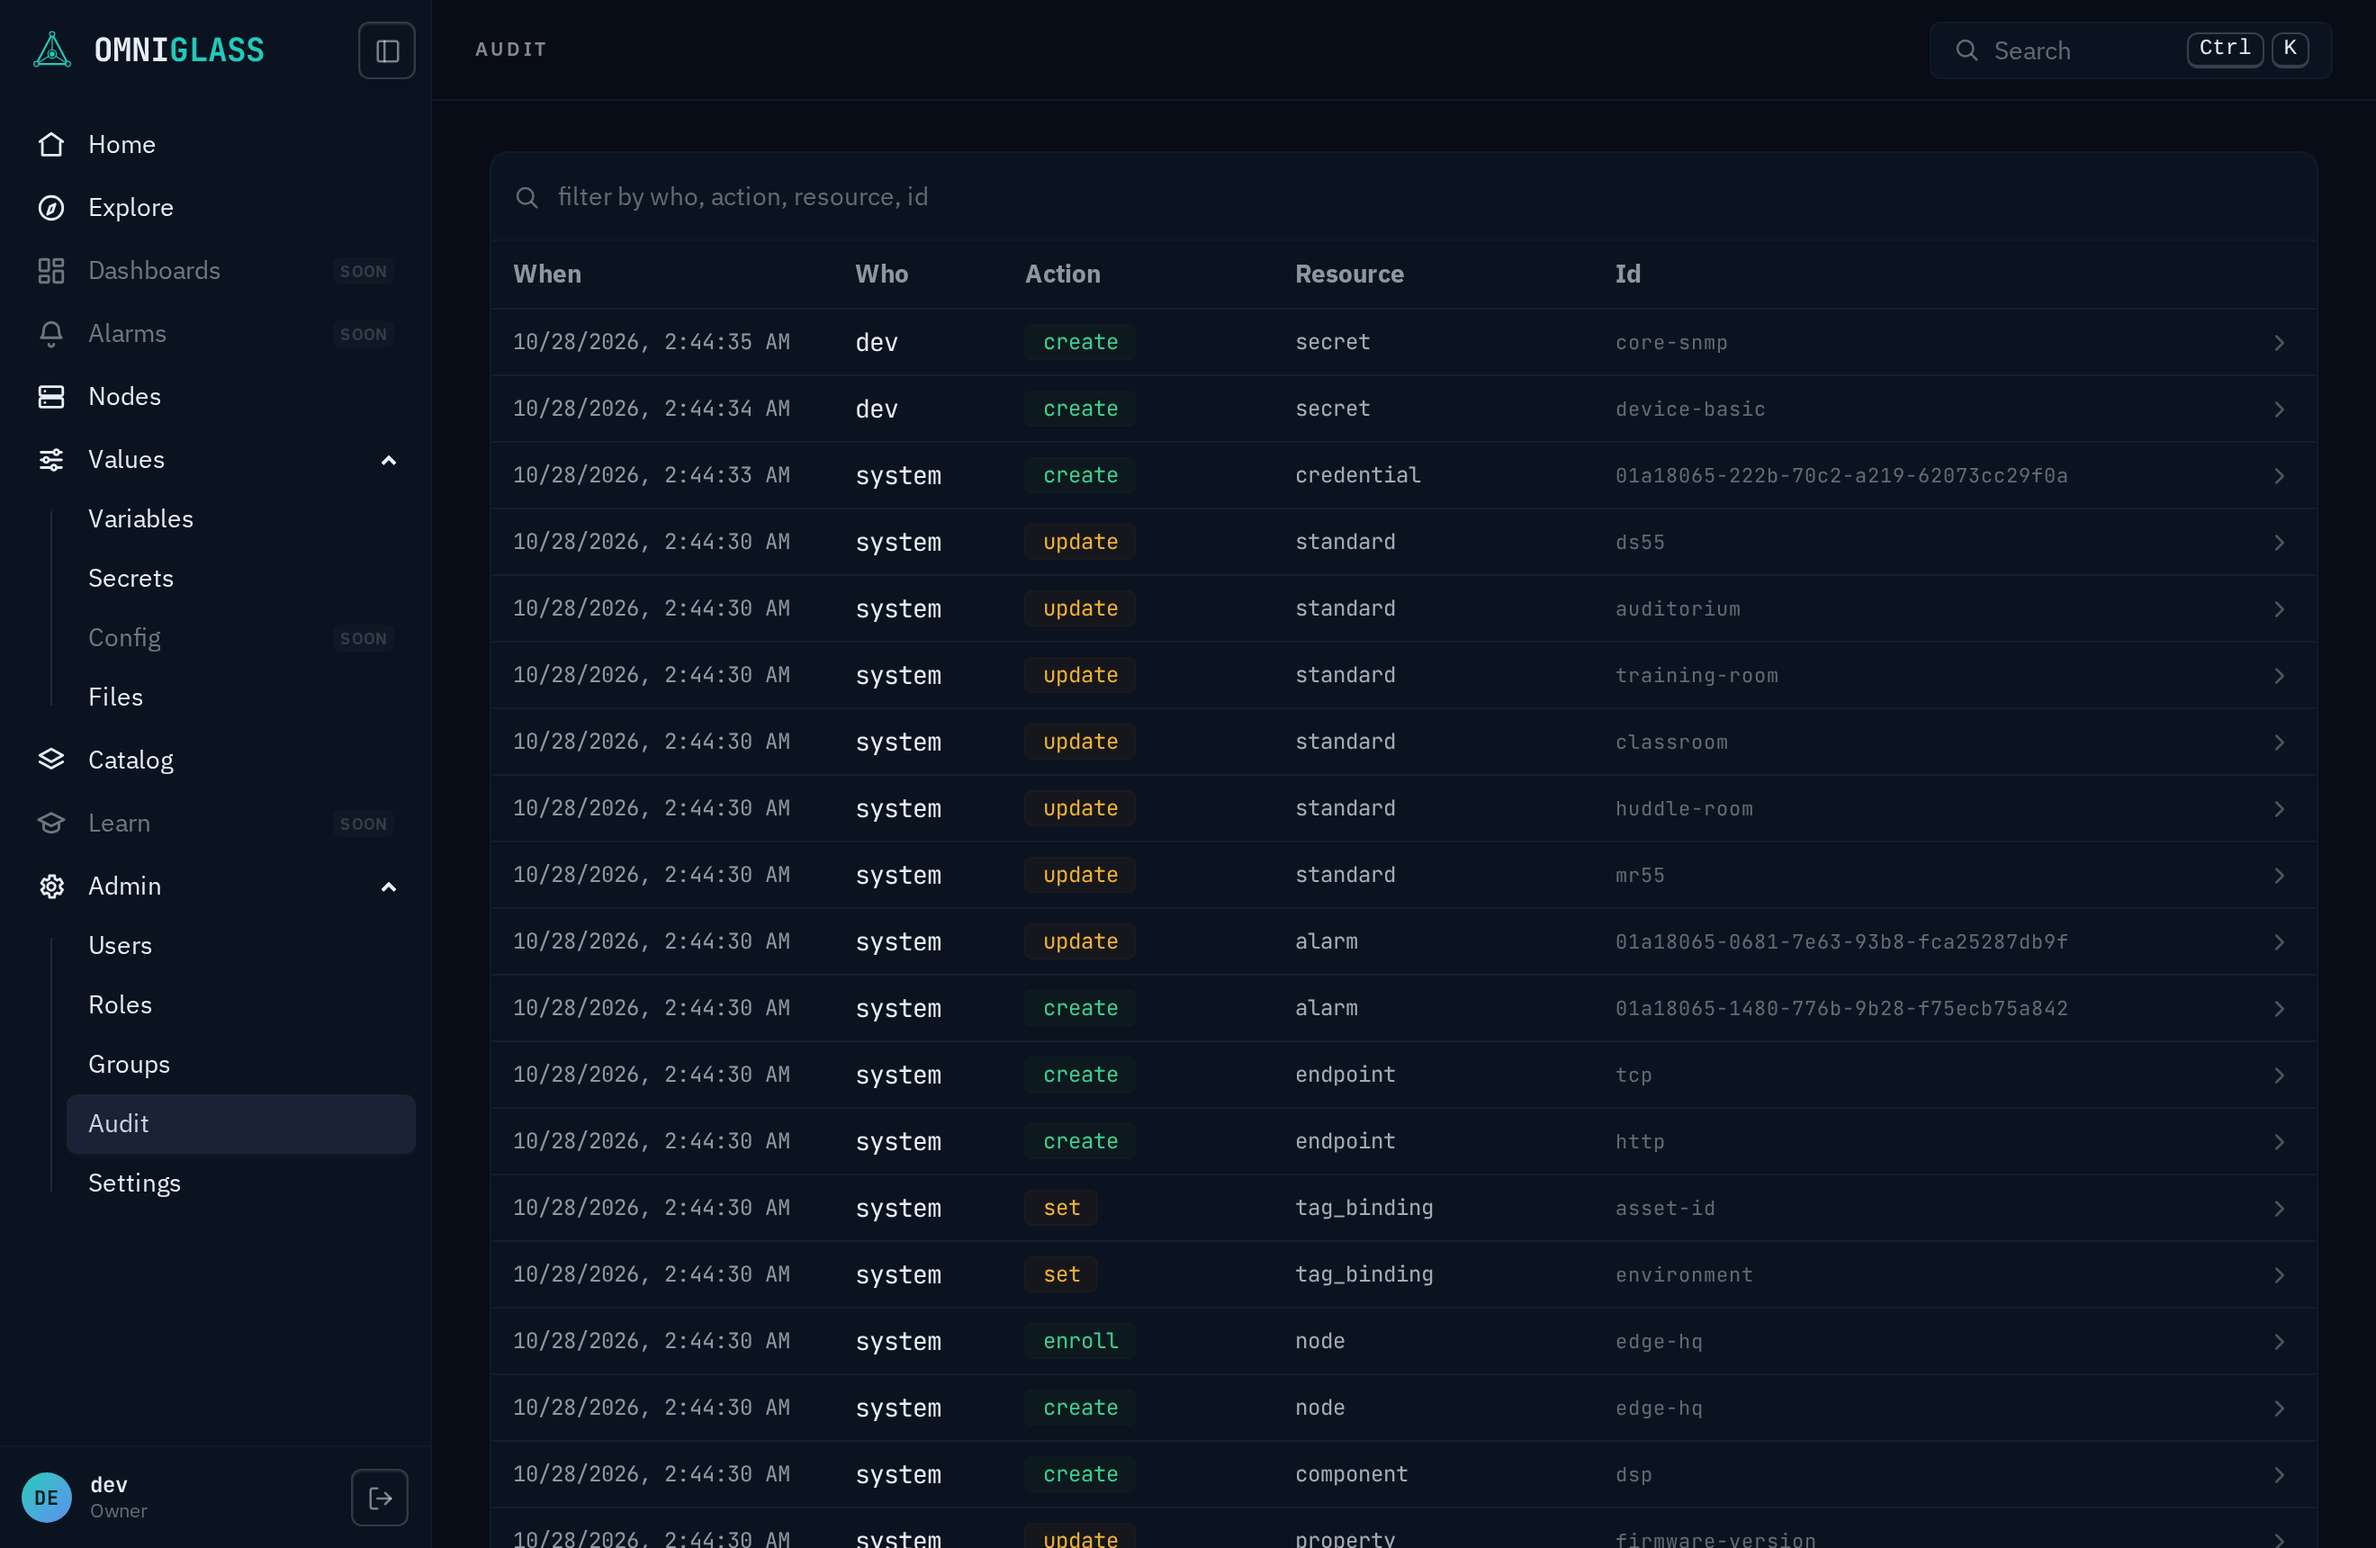
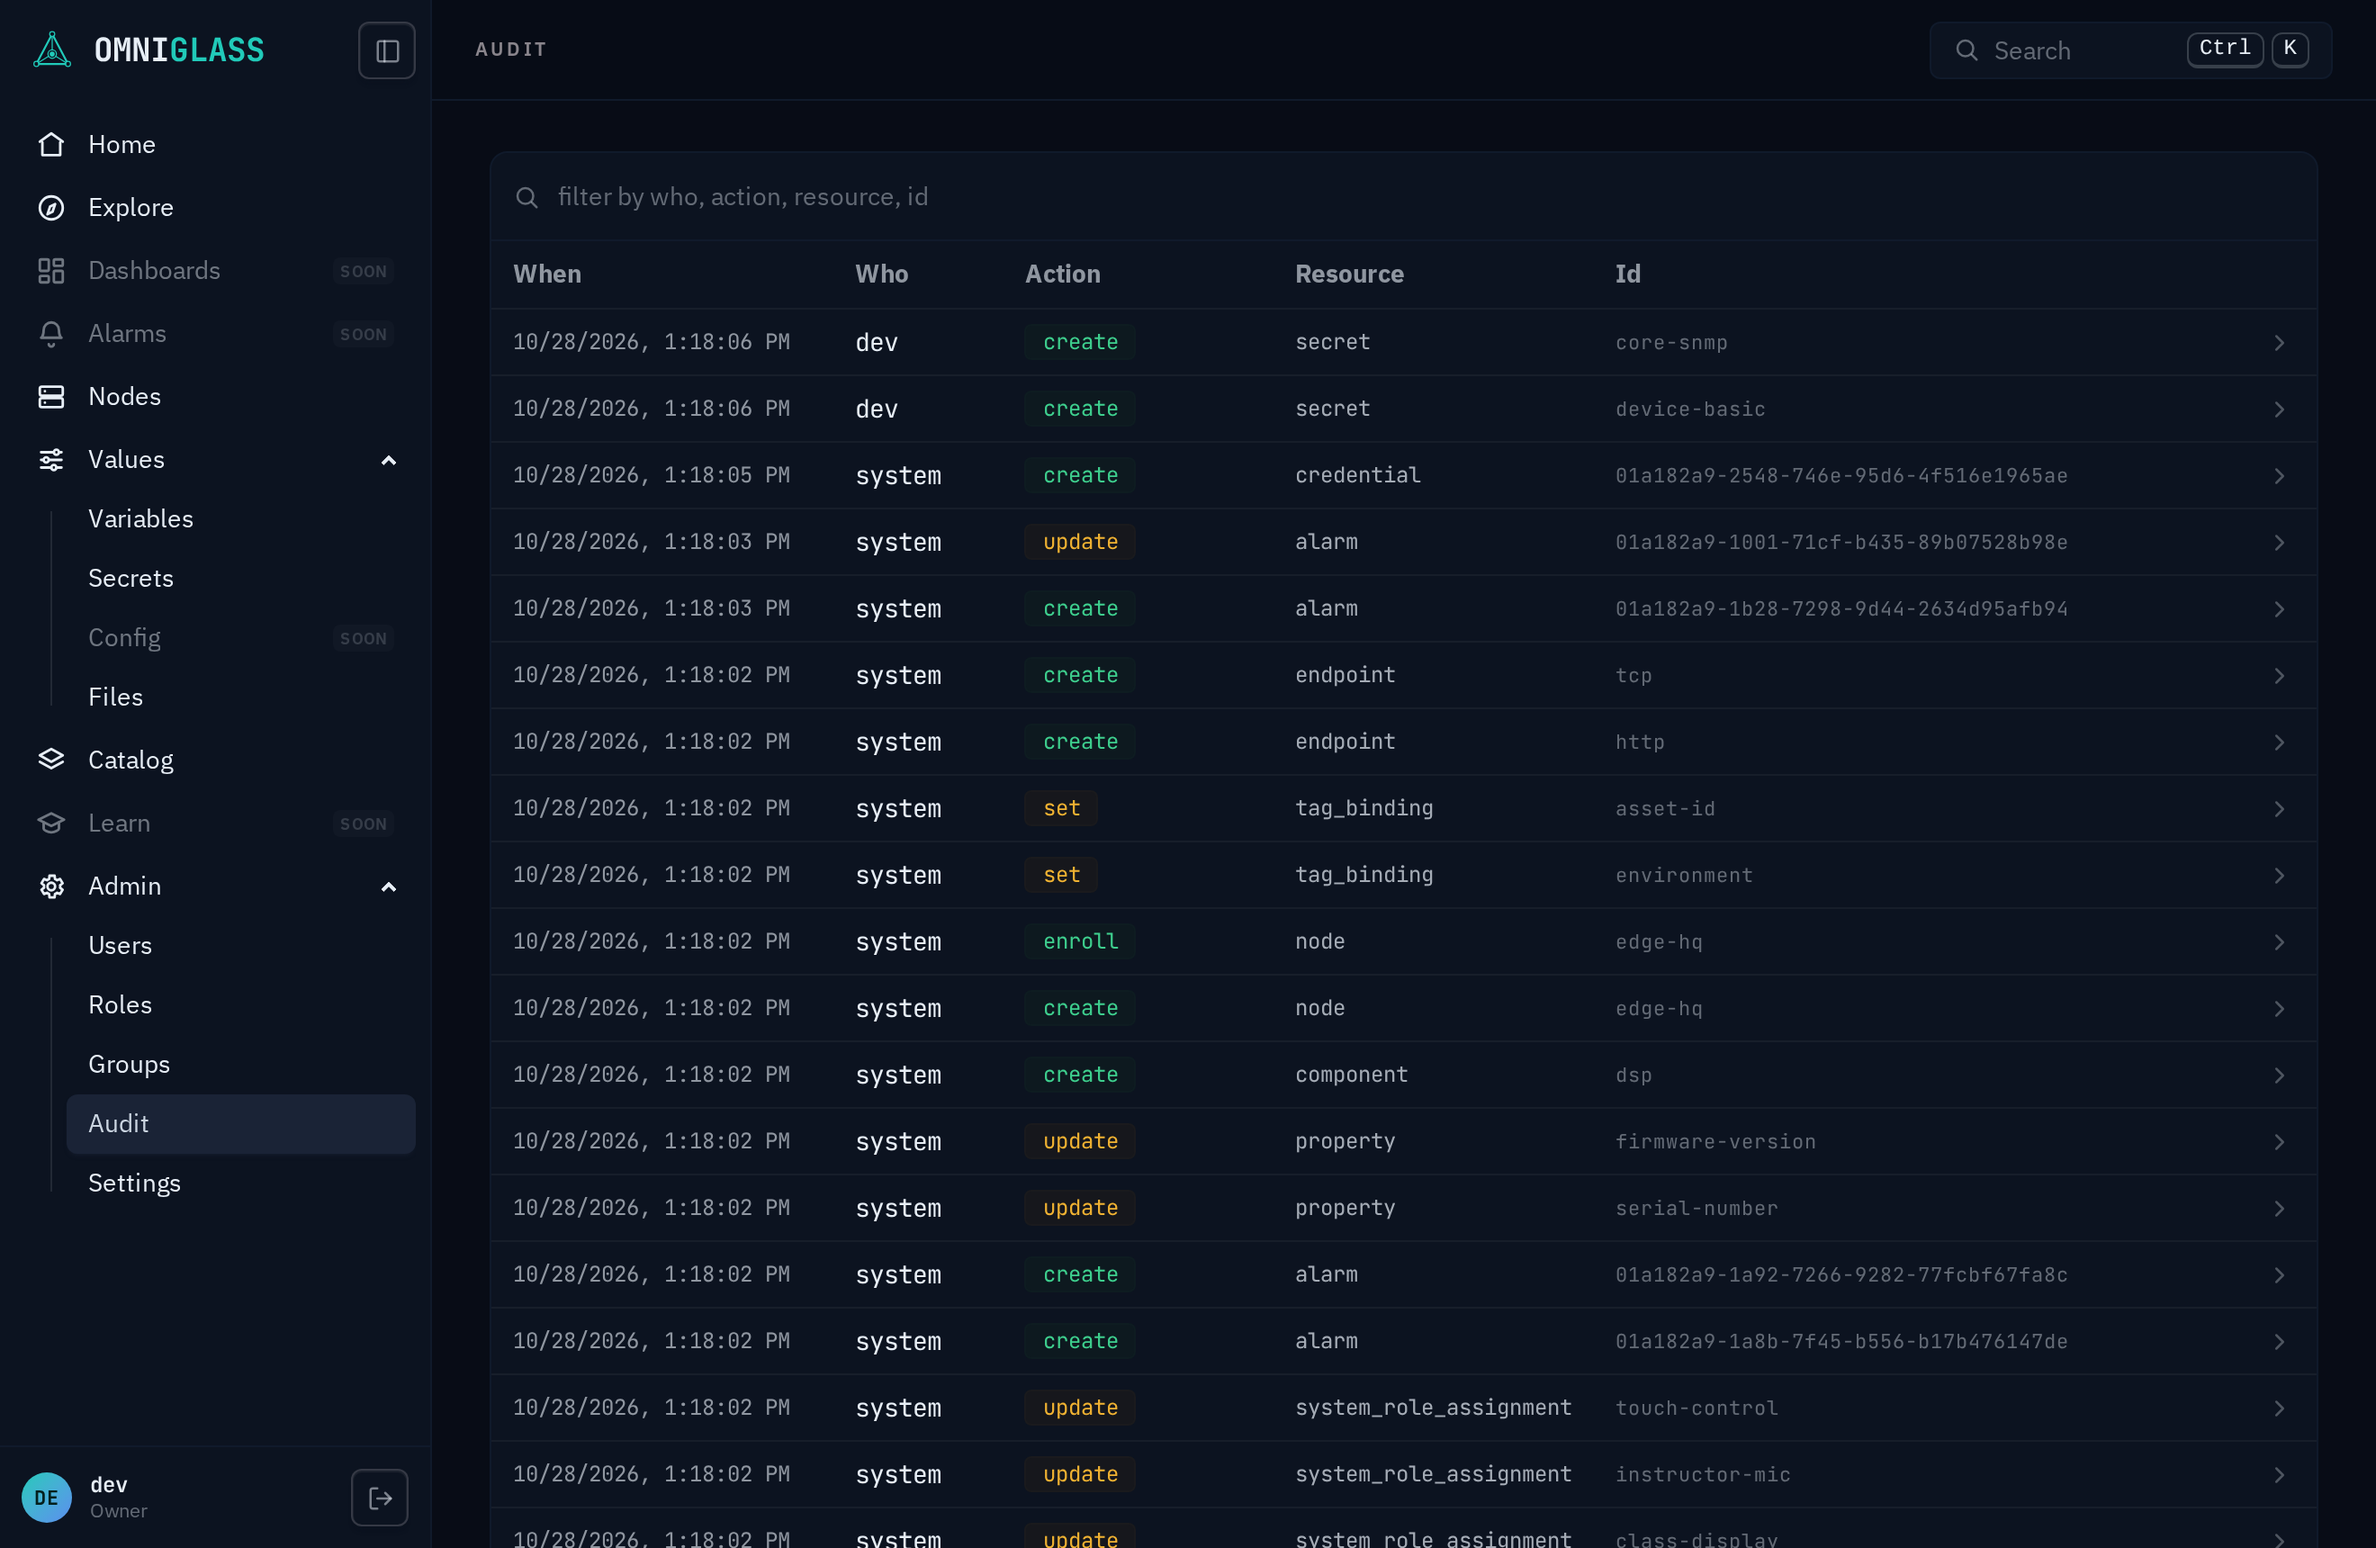
fix: the fork's review findings close inward (#1324)
The audit screenshot recaptures for the fork rows the dev seed now writes,
the fork-whole test holds every forked standard to its template's roles,
metric contract and map, the unused dry-run option goes, the seed-lane
comments say what calls them (#1332 retires the lane), and ADR-0555 notes
the amendment.

diff --git a/internal/template/fork_test.go b/internal/template/fork_test.go
@@ -4,6 +4,9 @@ import (
 	"context"
 	"encoding/json"
 	"errors"
+	"fmt"
+	"reflect"
+	"slices"
 	"sort"
 	"testing"
 
@@ -173,21 +176,6 @@ func TestAVariantForksOnlyOnceItsParentIsHeld(t *testing.T) {
 	}
 }
 
-func TestADryRunForkLandsNothing(t *testing.T) {
-	gw := seeded(t)
-	ctx := context.Background()
-	st, err := template.ForkStandard(ctx, gw, fixture(t), "", "base-room", template.ForkOptions{DryRun: true})
-	if err != nil {
-		t.Fatalf("dry-run fork: %v", err)
-	}
-	if _, err := gw.GetStandard(ctx, "base-room"); !errors.Is(err, storage.ErrTypeNotFound) {
-		t.Fatalf("a dry-run fork landed a standard: %v", err)
-	}
-	if rows := auditRows(t, gw, "fork", st.ID); len(rows) != 0 {
-		t.Fatalf("a dry-run fork landed %d audit rows", len(rows))
-	}
-}
-
 // TestShippedStandardTemplatesForkWhole is the build's real-write half of
 // the dry run: every shipped standard template forks into the seeded
 // catalogs, parents before variants, and each fork holds exactly the roles
@@ -204,22 +192,7 @@ func TestShippedStandardTemplatesForkWhole(t *testing.T) {
 		t.Fatalf("forked %d standards, want %d", len(forked), len(want))
 	}
 	for _, tm := range want {
-		roles, err := gw.ListSystemRoles(ctx, "standard", tm.Name)
-		if err != nil {
-			t.Fatalf("roles of %s: %v", tm.Name, err)
-		}
-		var got, exp []string
-		for _, r := range roles {
-			got = append(got, r.Name)
-		}
-		for _, r := range tm.Standard.Roles {
-			exp = append(exp, r.Name)
-		}
-		sort.Strings(got)
-		sort.Strings(exp)
-		if len(got) != len(exp) {
-			t.Errorf("%s forked roles %v, want %v", tm.Name, got, exp)
-		}
+		checkForkMatches(t, gw, tm)
 	}
 	again, err := template.ForkAllStandards(ctx, gw, template.Shipped(), "")
 	if err != nil || len(again) != 0 {
@@ -278,4 +251,80 @@ func jsonHas(raw []byte, key, want string) bool {
 	}
 	got, ok := m[key].(string)
 	return ok && got == want
+}
+
+// checkForkMatches holds a forked standard to its template: the same roles
+// (name, quorum, accepted types, pins, the alternate each joins), the same
+// metric contract, and the same map. What the dev fleet's Map tab and KPI
+// tiles read moved from the old seed into the templates, so this is their
+// pin.
+func checkForkMatches(t *testing.T, gw storage.Gateway, tm template.Template) {
+	t.Helper()
+	ctx := context.Background()
+	st, err := gw.GetStandard(ctx, tm.Name)
+	if err != nil {
+		t.Fatalf("read %s: %v", tm.Name, err)
+	}
+	roles, err := gw.ListSystemRoles(ctx, "standard", tm.Name)
+	if err != nil {
+		t.Fatalf("roles of %s: %v", tm.Name, err)
+	}
+	got := map[string]string{}
+	for _, r := range roles {
+		got[r.Name] = roleKey(r.Quorum, r.AcceptedTypes, r.PinnedProducts, r.Alternate)
+	}
+	want := map[string]string{}
+	for _, r := range tm.Standard.Roles {
+		alt := ""
+		if r.Choice != "" {
+			alt = r.Choice + "/" + r.Alternate
+		}
+		want[r.Name] = roleKey(r.Quorate(), r.AcceptedTypes, r.PinnedProducts, alt)
+	}
+	if !reflect.DeepEqual(got, want) {
+		t.Errorf("%s roles = %v, want %v", tm.Name, got, want)
+	}
+	var metrics, wantMetrics []string
+	ms, err := gw.ListStandardMetrics(ctx, tm.Name)
+	if err != nil {
+		t.Fatalf("metrics of %s: %v", tm.Name, err)
+	}
+	for _, m := range ms {
+		metrics = append(metrics, m.MetricTypeName)
+	}
+	for _, l := range tm.Standard.Metrics {
+		wantMetrics = append(wantMetrics, l.Name)
+	}
+	sort.Strings(metrics)
+	sort.Strings(wantMetrics)
+	if !slices.Equal(metrics, wantMetrics) {
+		t.Errorf("%s metric contract = %v, want %v", tm.Name, metrics, wantMetrics)
+	}
+	var wantMap []byte
+	if tm.Standard.Map != nil {
+		wantMap, _ = json.Marshal(tm.Standard.Map)
+	}
+	if !jsonEqual(st.Map, wantMap) {
+		t.Errorf("%s map = %s, want %s", tm.Name, st.Map, wantMap)
+	}
+}
+
+// roleKey renders the parts of a role a fork must carry, sets sorted.
+func roleKey(quorum int, types, pins []string, alt string) string {
+	ts := append([]string{}, types...)
+	ps := append([]string{}, pins...)
+	sort.Strings(ts)
+	sort.Strings(ps)
+	return fmt.Sprintf("quorum %d accepts %v pins %v alternate %q", quorum, ts, ps, alt)
+}
+
+func jsonEqual(a, b []byte) bool {
+	if len(a) == 0 || len(b) == 0 {
+		return len(a) == len(b)
+	}
+	var x, y any
+	if json.Unmarshal(a, &x) != nil || json.Unmarshal(b, &y) != nil {
+		return false
+	}
+	return reflect.DeepEqual(x, y)
 }

diff --git a/internal/storage/role_choices.go b/internal/storage/role_choices.go
@@ -112,9 +112,11 @@ func (p *PG) ResolveAlternate(ctx context.Context, ownerKind, ownerID, ref strin
 	return id, nil
 }
 
-// SeedRoleChoice installs one choice and its alternates for the boot-seed
-// phase. DISPLAY_NAME is the one field that stays truly insert-if-absent,
-// the same lane SeedSystemRole and SeedStandard use: an operator's edit to
+// SeedRoleChoice installs one choice and its alternates on the insert-if-
+// absent seed lane. No boot plants a standard any more (ADR-0827), so it has
+// no production caller; its retirement is #1332. DISPLAY_NAME is the one
+// field that stays truly insert-if-absent, the same lane SeedSystemRole
+// uses: an operator's edit to
 // it survives a re-run, never reasserted. NAME (membership: which
 // alternates exist at all) and POSITION are NOT operator-owned, and both
 // reconcile to the declared set every boot, existing alternates included.
@@ -160,8 +162,8 @@ func (p *PG) SeedRoleChoice(ctx context.Context, ownerKind, ownerID string, spec
 	defer func() { _ = tx.Rollback(ctx) }()
 
 	// Resolved once, inside this transaction (see role_declarations.go's
-	// roleOwnerArg): SeedRoleChoice's only non-test caller passes
-	// ownerKind="standard" today (a registry, unaffected), but this is a
+	// roleOwnerArg): SeedRoleChoice's callers pass ownerKind="standard"
+	// (a registry, unaffected), but this is a
 	// published gateway method whose ownerID is documented name-or-uuid, and
 	// a future system-owned seed must not raise SQLSTATE 21000 on server
 	// boot the moment two systems share a name (#627).

diff --git a/internal/storage/role_declarations.go b/internal/storage/role_declarations.go
@@ -571,10 +571,11 @@ func (p *PG) DeleteSystemRole(ctx context.Context, actorID, ownerKind, ownerID, 
 	return nil
 }
 
-// SeedSystemRole installs one declared role for the boot-seed phase: inserted when
-// absent, never reasserted, so an operator who retunes a shipped standard's
-// roles keeps their edit across restarts. Deliberately unaudited, the same lane
-// SeedStandard uses for the standards these roles hang off.
+// SeedSystemRole installs one declared role on the insert-if-absent seed lane:
+// inserted when absent, never reasserted. Deliberately unaudited. No boot
+// plants a standard any more (ADR-0827), so it has no production caller; a
+// standard's roles arrive through the audited fork (ForkStandard), and this
+// lane's retirement is #1332.
 //
 // It is one transaction (#508, ADR-0508): the role and its typed-slot sets land
 // together or not at all, so a fault between the statements can never commit a

diff --git a/internal/storage/standard_fork.go b/internal/storage/standard_fork.go
@@ -40,10 +40,6 @@ type StandardFork struct {
 	Metrics    []StandardMetricSpec
 	// Map is the layout declaration, nil for none.
 	Map json.RawMessage
-	// DryRun writes everything and then rolls it back: the answer is what a
-	// fork would write, and nothing lands. The build's template test uses it
-	// to hold every shipped template to the seeded catalogs.
-	DryRun bool
 }
 
 // ForkRole is one role of a fork. Choice and Alternate name the alternate a
@@ -148,9 +144,6 @@ func (p *PG) ForkStandard(ctx context.Context, actorID string, f StandardFork) (
 	}
 	if err := writeAuditRes(ctx, tx, actorID, "fork", "standard", created.ID, nil, audit); err != nil {
 		return nil, err
-	}
-	if f.DryRun {
-		return created, nil
 	}
 	if err := tx.Commit(ctx); err != nil {
 		return nil, fmt.Errorf("storage: commit fork standard: %w", err)

diff --git a/internal/devseed/devseed.go b/internal/devseed/devseed.go
@@ -560,7 +560,7 @@ func runDoc(ctx context.Context, gw storage.Gateway, actorID string, doc Doc, op
 	}
 
 	// Systems: the thing in the room that either works or does not, conforming to a
-	// boot-seeded standard whose roles it inherits live. Locations must already be
+	// standard forked from a template (above) whose roles it inherits live. Locations must already be
 	// seeded for the placement to resolve. Recognised the same way a component is,
 	// with the system_type as the classification whose stem is minted.
 	sysIDs := map[string]string{}

diff --git a/internal/template/fork.go b/internal/template/fork.go
@@ -17,7 +17,6 @@ type ForkOptions struct {
 	Name   string
 	Label  string
 	Parent string
-	DryRun bool
 }
 
 // ErrNotAStandard is a fork of a template that is not a standard template.
@@ -36,7 +35,6 @@ func StandardFork(t *Template, opt ForkOptions) (storage.StandardFork, error) {
 		Name:     orDefault(opt.Name, t.Name),
 		Label:    orDefault(opt.Label, t.Label),
 		Parent:   orDefault(opt.Parent, s.Parent),
-		DryRun:   opt.DryRun,
 	}
 	for _, c := range s.Choices {
 		spec := storage.RoleChoiceSpec{Name: c.Name, Label: c.Label}

diff --git a/docs/src/content/decisions/adr-0827-the-template-layer-owns-the-clone-model-and-the-componenttemplate-authoring-model-is-superseded-by-the-driver-spec.md b/docs/src/content/decisions/adr-0827-the-template-layer-owns-the-clone-model-and-the-componenttemplate-authoring-model-is-superseded-by-the-driver-spec.md
@@ -35,7 +35,10 @@ refs: [827, 1322, 1331, 318, 1330]
   not when a template binds a set function. The kind names `component_template` and
   `system_template` are reclaimed for the catalog: the ADR-0071 vocabulary lint narrows to the
   versioned-shape tables it retired (`component_template_version`, `system_template_version`,
-  `system_template_member`).
+  `system_template_member`). With the standards seed retired, the boot plants no standard, so
+  [ADR-0555](#adr-0555-a-registry-row-renames-through-its-own-rename-custom-method)'s refusal to rename
+  a seeded example standard (and the `standard.seeded` mark behind it) goes too: every standard is an
+  operator row, and renames.
 - **Context:** The definition of #827 found that every fence citing it for collection authoring
   described a model the driver spec had already replaced in the tree: typed inputs, poll functions,
   listeners and command bindings, attached per endpoint, re-derived on change. Keeping the step DAG

diff --git a/docs/src/content/decisions/adr-0555-a-registry-row-renames-through-its-own-rename-custom-method.md b/docs/src/content/decisions/adr-0555-a-registry-row-renames-through-its-own-rename-custom-method.md
@@ -1,7 +1,7 @@
 ---
 title: "A registry row renames through its own :rename custom method"
 date: 2026-10-26
-status: "Accepted"
+status: "Accepted, amended by ADR-0827"
 summary: "A vendor, driver, product, standard or location type renames through `POST /<registry>/{id}:rename`, gated by its own `<registry>:rename` (admin), not a name field on each patch as #555 first proposed. One gateway primitive (`RenameRegistry`) serves all five: it validates the name, refuses an official row and a seeded example standard (the boot seed owns both by name), moves the one column, carries every by-value copy of the name along (a location type's in `allowed_parent_types` and in forks, a driver's in the tasks it derives, by re-deriving them), and audits it in the transaction. The telemetry-keyed catalogs and the remaining type registries wait on #1188"
 refs: [555, 825, 827, 1188]
 ---
